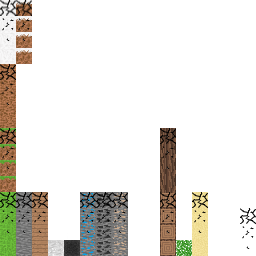
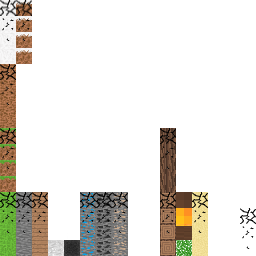
Create torches and improve night lightning

Changed region(s): [[0.6875, 0.75, 0.75, 0.9375]]

diff --git a/Assets/Scripts/TerrainChunk.cs b/Assets/Scripts/TerrainChunk.cs
@@ -17,6 +17,8 @@ public class TerrainChunk : MonoBehaviour
     private int chunkX;
     private int chunkZ;
 
+    public List<GameObject> torches = new List<GameObject>();
+
 
     private void Update()
     {
@@ -51,7 +53,7 @@ public class TerrainChunk : MonoBehaviour
         if (blocks[x, y, z] == BlockType.Air) return null;
 
         // if block don't have damage effect
-        if (blocks[x, y, z] == BlockType.Leaves) {  // add glass
+        if (blocks[x, y, z] == BlockType.Leaves || blocks[x, y, z] == BlockType.Torch) {  // add glass
             BlockType blockType = blocks[x, y, z];
             blocks[x, y, z] = BlockType.Air;
 
@@ -194,13 +196,13 @@ public class TerrainChunk : MonoBehaviour
 
         for (int x = 1; x < chunkWidth + 1; x++)
             for (int z = 1; z < chunkWidth + 1; z++)
-                for (int y = 0; y < chunkHeight; y++)
-                    if (blocks[x, y, z] != BlockType.Air) {
+                for (int y = 0; y < chunkHeight; y++) {
+                    if (blocks[x, y, z] != BlockType.Air && blocks[x, y, z] != BlockType.Torch) {
                         Vector3 blockPos = new Vector3(x - 1, y, z - 1);
                         int faces = 0;
 
                         // top
-                        if (y < chunkHeight - 1 && blocks[x, y + 1, z] == BlockType.Air || blocks[x, y + 1, z] == BlockType.Leaves) {
+                        if (y < chunkHeight - 1 && blocks[x, y + 1, z] == BlockType.Air || blocks[x, y + 1, z] == BlockType.Leaves || blocks[x, y + 1, z] == BlockType.Torch) {
                             verts.Add(blockPos + new Vector3(0, 1, 0));
                             verts.Add(blockPos + new Vector3(0, 1, 1));
                             verts.Add(blockPos + new Vector3(1, 1, 1));
@@ -211,7 +213,7 @@ public class TerrainChunk : MonoBehaviour
                         }
 
                         // bottom
-                        if (y > 0 && (blocks[x, y - 1, z] == BlockType.Air || blocks[x, y - 1, z] == BlockType.Leaves)) {
+                        if (y > 0 && (blocks[x, y - 1, z] == BlockType.Air || blocks[x, y - 1, z] == BlockType.Leaves || blocks[x, y - 1, z] == BlockType.Torch)) {
                             verts.Add(blockPos + new Vector3(0, 0, 0));
                             verts.Add(blockPos + new Vector3(1, 0, 0));
                             verts.Add(blockPos + new Vector3(1, 0, 1));
@@ -222,7 +224,7 @@ public class TerrainChunk : MonoBehaviour
                         }
 
                         // front
-                        if (z-1 == 0) { // check if chunk in front has block on this position
+                        if (z - 1 == 0) { // check if chunk in front has block on this position
 
                             //if(terrainChunkFront.blocks[x, y, chunkWidth] == BlockType.Air) {
                             if (TerrainGenerator.chunks[new Vector2Int(chunkX, chunkZ - 16)].blocks[x, y, chunkWidth] == BlockType.Air) {
@@ -236,7 +238,7 @@ public class TerrainChunk : MonoBehaviour
                                 uvs.AddRange(Block.blocks[blocks[x, y, z]].sidePos.uvs);
                             }
                         }
-                        else if (blocks[x, y, z - 1] == BlockType.Air || blocks[x, y, z - 1] == BlockType.Leaves) {
+                        else if (blocks[x, y, z - 1] == BlockType.Air || blocks[x, y, z - 1] == BlockType.Leaves || blocks[x, y, z - 1] == BlockType.Torch) {
                             verts.Add(blockPos + new Vector3(0, 0, 0));
                             verts.Add(blockPos + new Vector3(0, 1, 0));
                             verts.Add(blockPos + new Vector3(1, 1, 0));
@@ -259,7 +261,7 @@ public class TerrainChunk : MonoBehaviour
                                 uvs.AddRange(Block.blocks[blocks[x, y, z]].sidePos.uvs);
                             }
                         }
-                        else if (blocks[x, y, z + 1] == BlockType.Air || blocks[x, y, z + 1] == BlockType.Leaves) {
+                        else if (blocks[x, y, z + 1] == BlockType.Air || blocks[x, y, z + 1] == BlockType.Leaves || blocks[x, y, z + 1] == BlockType.Torch) {
                             verts.Add(blockPos + new Vector3(1, 0, 1));
                             verts.Add(blockPos + new Vector3(1, 1, 1));
                             verts.Add(blockPos + new Vector3(0, 1, 1));
@@ -282,7 +284,7 @@ public class TerrainChunk : MonoBehaviour
                                 uvs.AddRange(Block.blocks[blocks[x, y, z]].sidePos.uvs);
                             }
                         }
-                        else if (blocks[x - 1, y, z] == BlockType.Air || blocks[x - 1, y, z] == BlockType.Leaves) {
+                        else if (blocks[x - 1, y, z] == BlockType.Air || blocks[x - 1, y, z] == BlockType.Leaves || blocks[x - 1, y, z] == BlockType.Torch) {
                             verts.Add(blockPos + new Vector3(0, 0, 1));
                             verts.Add(blockPos + new Vector3(0, 1, 1));
                             verts.Add(blockPos + new Vector3(0, 1, 0));
@@ -305,7 +307,7 @@ public class TerrainChunk : MonoBehaviour
                                 uvs.AddRange(Block.blocks[blocks[x, y, z]].sidePos.uvs);
                             }
                         }
-                        else if (blocks[x + 1, y, z] == BlockType.Air || blocks[x + 1, y, z] == BlockType.Leaves) {
+                        else if (blocks[x + 1, y, z] == BlockType.Air || blocks[x + 1, y, z] == BlockType.Leaves || blocks[x + 1, y, z] == BlockType.Torch) {
                             verts.Add(blockPos + new Vector3(1, 0, 0));
                             verts.Add(blockPos + new Vector3(1, 1, 0));
                             verts.Add(blockPos + new Vector3(1, 1, 1));
@@ -322,6 +324,11 @@ public class TerrainChunk : MonoBehaviour
                             tris.AddRange(new int[] { tl + i * 4, tl + i * 4 + 1, tl + i * 4 + 2, tl + i * 4, tl + i * 4 + 2, tl + i * 4 + 3 });
                     }
 
+                    else if (blocks[x, y, z] == BlockType.Torch) {
+                        GetVertsTrisUvsForTorch(verts, tris, uvs, x, z, y);
+                    }
+                }
+
         mesh.vertices = verts.ToArray();
         mesh.triangles = tris.ToArray();
         mesh.uv = uvs.ToArray();
@@ -330,5 +337,75 @@ public class TerrainChunk : MonoBehaviour
 
         GetComponent<MeshFilter>().mesh = mesh;
         GetComponent<MeshCollider>().sharedMesh = mesh;
+    }
+
+
+    private void GetVertsTrisUvsForTorch(List<Vector3> verts, List<int> tris, List<Vector2> uvs, int x, int z, int y) {
+        Vector3 blockPos = new Vector3(x - 1, y, z - 1);
+        int faces = 0;
+
+        // top
+        if (y < chunkHeight - 1 && blocks[x, y + 1, z] == BlockType.Air || blocks[x, y + 1, z] == BlockType.Leaves) {
+            verts.Add(blockPos + new Vector3(.45f, .7f, .45f));
+            verts.Add(blockPos + new Vector3(.45f, .7f, .55f));
+            verts.Add(blockPos + new Vector3(.55f, .7f, .55f));
+            verts.Add(blockPos + new Vector3(.55f, .7f, .45f));
+
+            faces++;
+            uvs.AddRange(Block.blocks[blocks[x, y, z]].topPos.uvs);
+        }
+
+        // bottom
+        if (y > 0 && (blocks[x, y - 1, z] == BlockType.Air || blocks[x, y - 1, z] == BlockType.Leaves)) {
+            verts.Add(blockPos + new Vector3(.45f, 0, .45f));
+            verts.Add(blockPos + new Vector3(.55f, 0, .45f));
+            verts.Add(blockPos + new Vector3(.55f, 0, .55f));
+            verts.Add(blockPos + new Vector3(.45f, 0, .55f));
+
+            faces++;
+            uvs.AddRange(Block.blocks[blocks[x, y, z]].bottomPos.uvs);
+        }
+
+        // front
+        verts.Add(blockPos + new Vector3(.45f, 0, .45f));
+        verts.Add(blockPos + new Vector3(.45f, .7f, .45f));
+        verts.Add(blockPos + new Vector3(.55f, .7f, .45f));
+        verts.Add(blockPos + new Vector3(.55f, 0, .45f));
+
+        faces++;
+        uvs.AddRange(Block.blocks[blocks[x, y, z]].sidePos.uvs);
+
+        // back
+        verts.Add(blockPos + new Vector3(.55f, 0, .55f));
+        verts.Add(blockPos + new Vector3(.55f, .7f, .55f));
+        verts.Add(blockPos + new Vector3(.45f, .7f, .55f));
+        verts.Add(blockPos + new Vector3(.45f, 0, .55f));
+
+        faces++;
+        uvs.AddRange(Block.blocks[blocks[x, y, z]].sidePos.uvs);
+
+        // left
+        verts.Add(blockPos + new Vector3(.45f, 0, .55f));
+        verts.Add(blockPos + new Vector3(.45f, .7f, .55f));
+        verts.Add(blockPos + new Vector3(.45f, .7f, .45f));
+        verts.Add(blockPos + new Vector3(.45f, 0, .45f));
+
+        faces++;
+        uvs.AddRange(Block.blocks[blocks[x, y, z]].sidePos.uvs);
+
+        // right
+        verts.Add(blockPos + new Vector3(.55f, 0, .45f));
+        verts.Add(blockPos + new Vector3(.55f, .7f, .45f));
+        verts.Add(blockPos + new Vector3(.55f, .7f, .55f));
+        verts.Add(blockPos + new Vector3(.55f, 0, .55f));
+
+        faces++;
+        uvs.AddRange(Block.blocks[blocks[x, y, z]].sidePos.uvs);
+
+
+        int tl = verts.Count - 4 * faces;
+
+        for (int i = 0; i < faces; i++)
+            tris.AddRange(new int[] { tl + i * 4, tl + i * 4 + 1, tl + i * 4 + 2, tl + i * 4, tl + i * 4 + 2, tl + i * 4 + 3 });
     }
 }

diff --git a/Assets/Scripts/TerrainBuildingSystem.cs b/Assets/Scripts/TerrainBuildingSystem.cs
@@ -23,6 +23,8 @@ public class TerrainBuildingSystem : MonoBehaviour
     private float timeToNextHit;
     private bool destroyButtonPressed = false;
 
+    [SerializeField]
+    private GameObject torchLightPrefab;
 
     private void Start()
     {
@@ -166,7 +168,6 @@ public class TerrainBuildingSystem : MonoBehaviour
                 
                 if (biy != 0) // we can't destroy blocks on the bottom of the map
                 {
-
                     BlockType? block = tc.IncreaseBLockDestroyLevel(bix, biy, biz);
                     if(block.HasValue) {
                         if (block == BlockType.Dirt || block == BlockType.Grass || block == BlockType.GrassSnow) {
@@ -195,8 +196,18 @@ public class TerrainBuildingSystem : MonoBehaviour
                                 inventory.AddItem(new Item { itemType = ItemType.Apple, amount = 1 });
                             }
                         }
+                        else if(block == BlockType.Torch) {
+                            // Remove torch light from chunk
+                            for (int i = 0; i < tc.torches.Count; i++) {
+                                if (tc.torches[i].name == bix + " " + biy + " " + biz) {
+                                    var light = tc.torches[i];
+                                    tc.torches.RemoveAt(i);
+                                    Destroy(light);
+                                }
+                            }
 
-
+                            inventory.AddItem(new Item { itemType = ItemType.Torch, amount = 1 });
+                        }
                     }
 
                     tc.RegenerateMesh();
@@ -224,12 +235,21 @@ public class TerrainBuildingSystem : MonoBehaviour
             }
             // right click
             else {
-                BlockType blockType = inventory.GetSlotItem(blockSelectCounter);
-                if(blockType != BlockType.Air)
-                    if(biy <= TerrainChunk.chunkHeight - 2)  // and we can't place blocks above the limit
+                if (tc.blocks[bix, biy, biz] != BlockType.Torch && biy <= TerrainChunk.chunkHeight - 2) {  // we can't place blocks above the limit
+                    BlockType blockType = inventory.GetSlotItem(blockSelectCounter);
+                    if (blockType != BlockType.Air)
                         tc.blocks[bix, biy, biz] = blockType;
 
-                tc.GenerateMesh();
+                    if (blockType == BlockType.Torch) {
+                        GameObject lightGameObject = Instantiate(torchLightPrefab, tc.transform);
+                        lightGameObject.name = bix + " " + biy + " " + biz;
+                        lightGameObject.transform.position = 
+                            new Vector3(tc.transform.position.x + bix - .5f, tc.transform.position.y + biy + .8f, tc.transform.position.z + biz - .5f);
+                        tc.torches.Add(lightGameObject);
+                    }
+                }
+
+                tc.RegenerateMesh();
             }
         }
     }

diff --git a/Assets/Scripts/Tile.cs b/Assets/Scripts/Tile.cs
@@ -79,6 +79,10 @@ public enum TileType {
     SandD1,
     SandD2,
     SandD3,
+
+    TorchTop,
+    TorchSide,
+    TorchBottom
 }
 
 
@@ -167,5 +171,9 @@ public class Tile
         {TileType.SandD1, new Tile(12, 1)},
         {TileType.SandD2, new Tile(12, 2)},
         {TileType.SandD3, new Tile(12, 3)},
+
+        {TileType.TorchTop, new Tile(11, 2) },
+        {TileType.TorchSide, new Tile(11, 1) },
+        {TileType.TorchBottom, new Tile(11, 3) },
     };
 }

diff --git a/Assets/Scripts/Block.cs b/Assets/Scripts/Block.cs
@@ -66,6 +66,8 @@ public enum BlockType
     SandD1,
     SandD2,
     SandD3,
+
+    Torch,
 }
 
 
@@ -150,5 +152,8 @@ public class Block
         {BlockType.SandD1, new Block(TileType.SandD1)},
         {BlockType.SandD2, new Block(TileType.SandD2)},
         {BlockType.SandD3, new Block(TileType.SandD3)},
+
+
+        {BlockType.Torch, new Block(TileType.TorchTop, TileType.TorchSide, TileType.TorchBottom) }
     };
 }

diff --git a/Assets/Scripts/InventorySystem/Item.cs b/Assets/Scripts/InventorySystem/Item.cs
@@ -104,6 +104,8 @@ public class Item
                 return BlockType.Sand;
             case ItemType.IronOre:
                 return BlockType.IronOre;
+            case ItemType.Torch:
+                return BlockType.Torch;
             default:
                 return BlockType.Air;
         }

diff --git a/Assets/Scripts/InventorySystem/Inventory.cs b/Assets/Scripts/InventorySystem/Inventory.cs
@@ -17,6 +17,8 @@ public class Inventory: MonoBehaviour
 
     private void Start() {
         ui_Inventory.SetInventory(this);
+
+        items.Add(new Item { amount = 10, itemType = ItemType.Torch, slot = new Vector2Int(0, 0) });
     }
 
     public void AddItem(Item item) {
